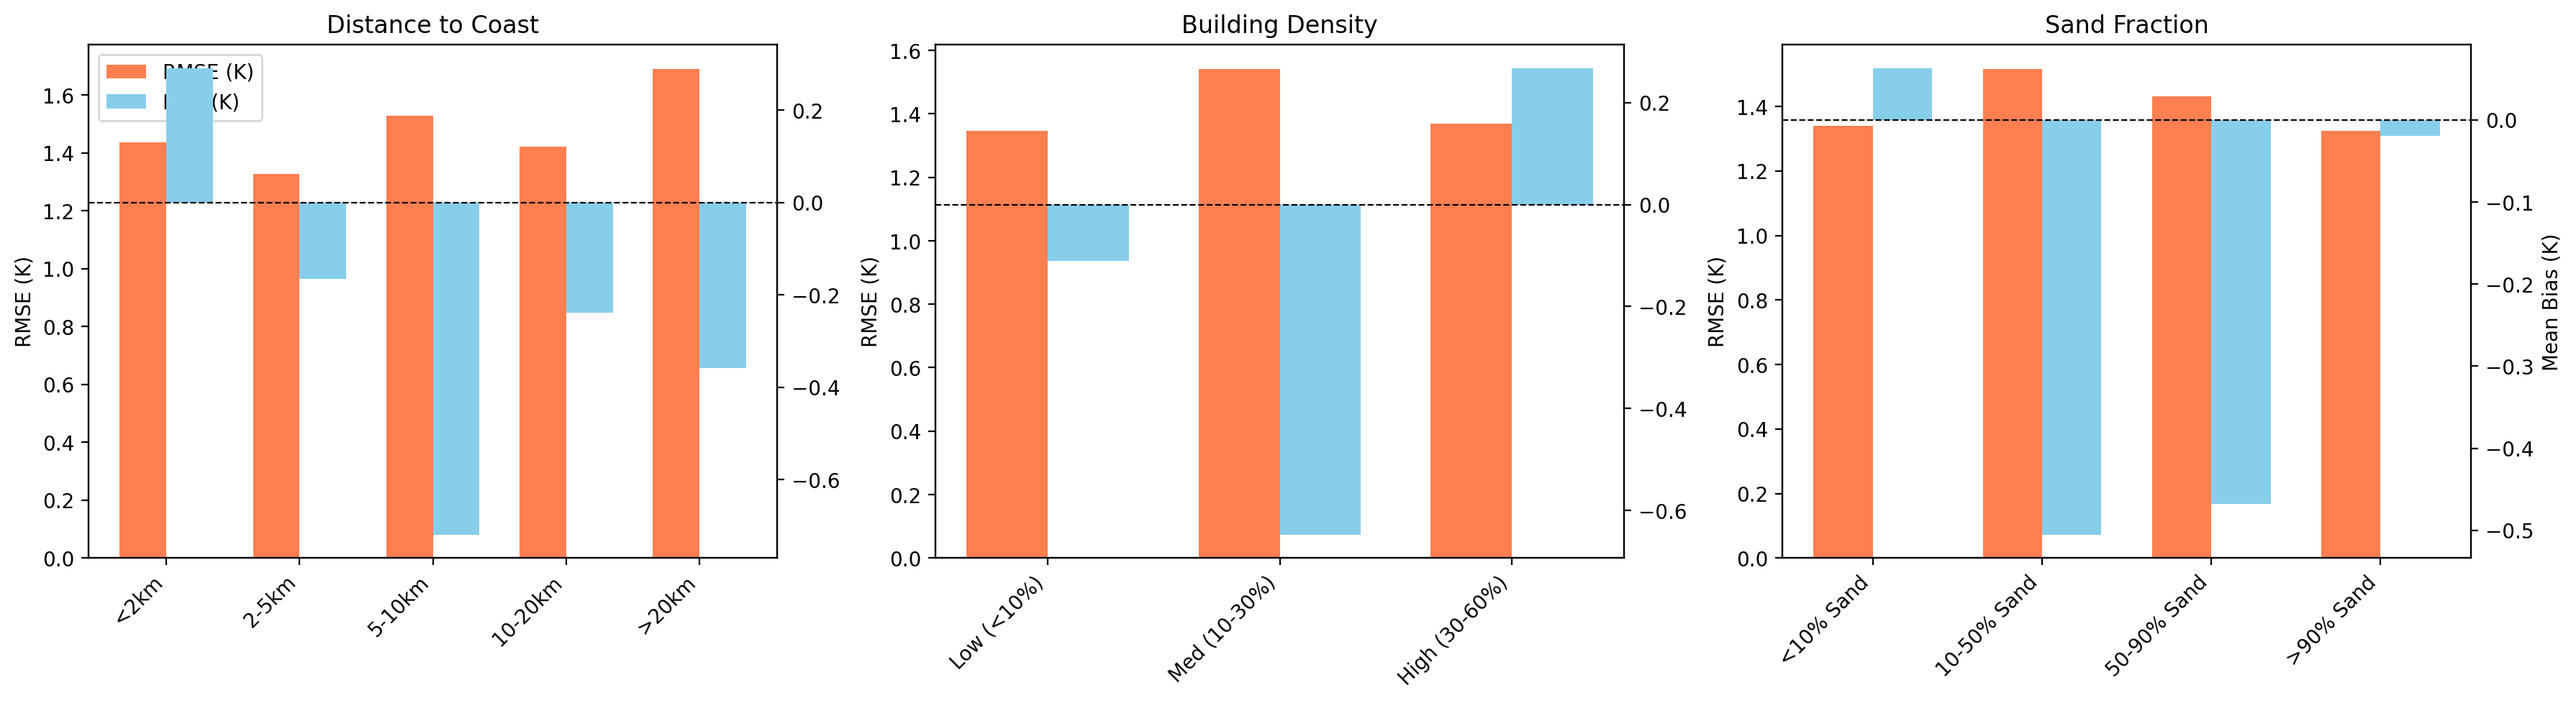
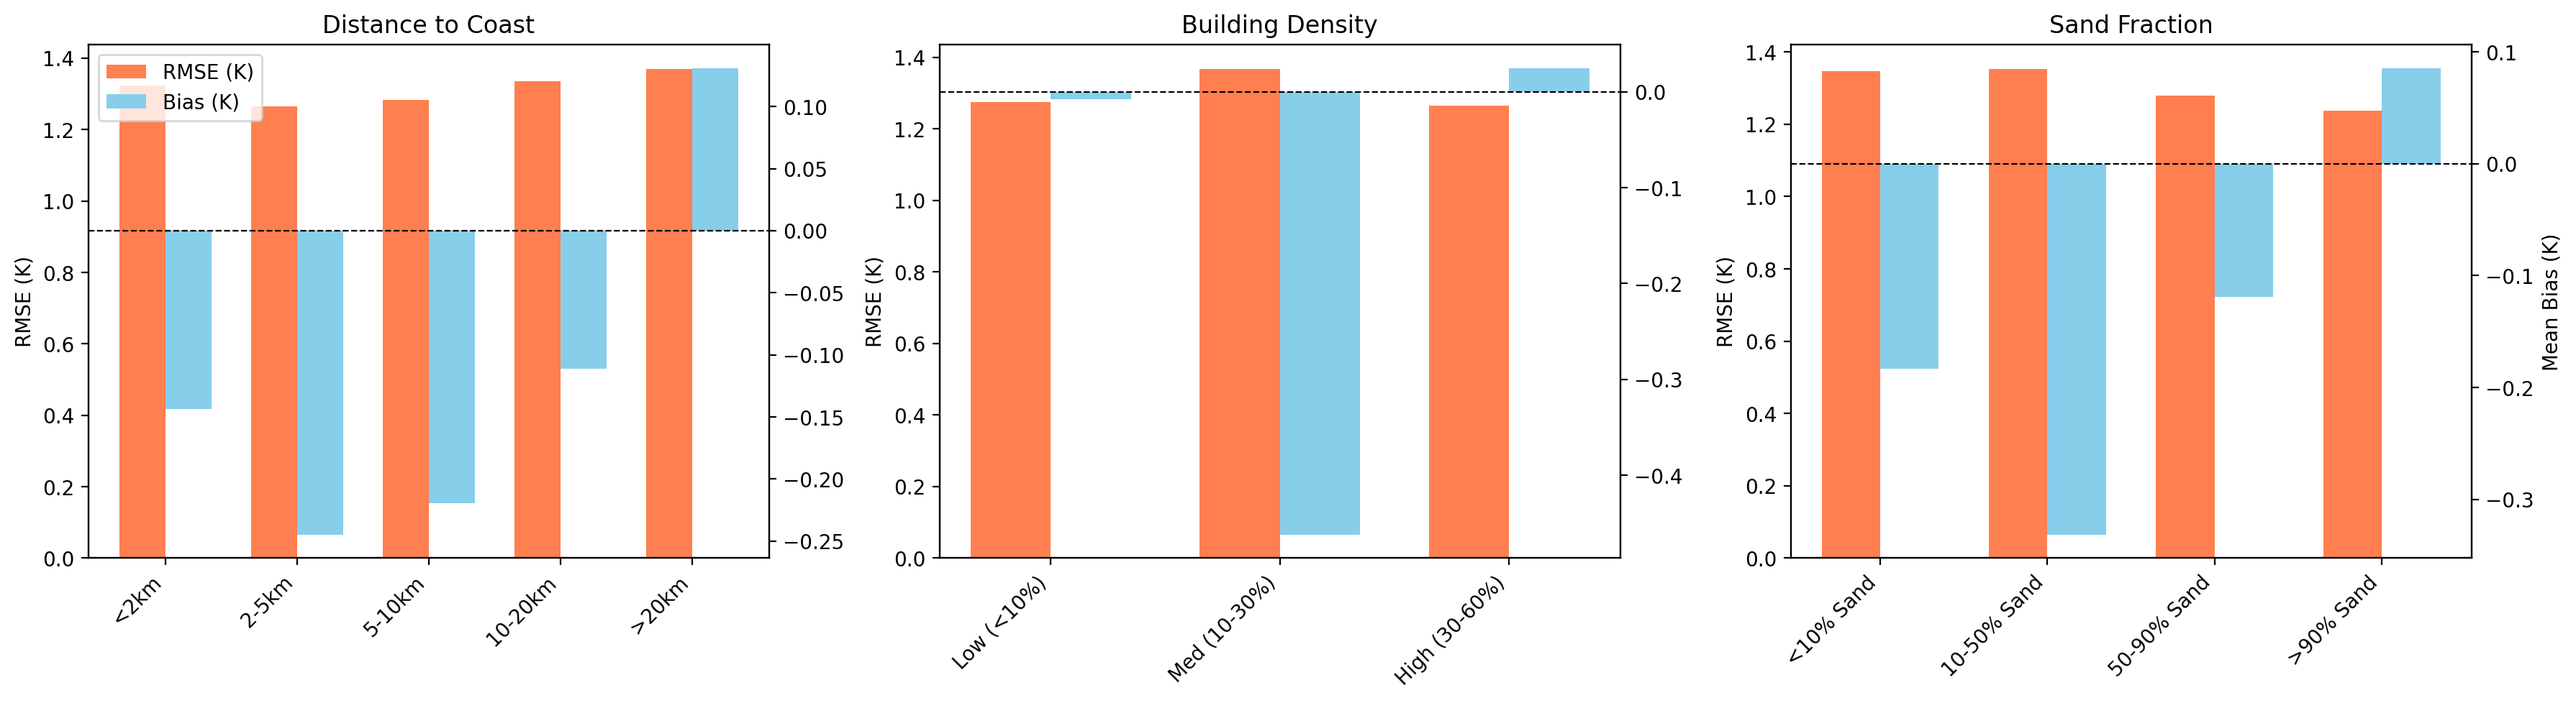
Modified the consistency script to consider all the pixels rather than just the test set and got the new metrics

diff --git a/src/phase3_evaluation/eval_nighttime.py b/src/phase3_evaluation/eval_nighttime.py
@@ -24,33 +24,6 @@ BLOCK_SIZE = 5000
 TEST_RATIO = 0.3
 RANDOM_STATE = 42
 
-def recreate_test_split(df):
-    """
-    Recreates the exact same spatial block split used during training
-    to extract ONLY the Test subset for unbiased evaluation.
-    """
-    logger.info(f"Recreating {BLOCK_SIZE}m spatial split to extract Test set...")
-    
-    # Assign Block IDs
-    df['block_x'] = (df['pixel_x'] // BLOCK_SIZE).astype(int)
-    df['block_y'] = (df['pixel_y'] // BLOCK_SIZE).astype(int)
-    
-    blocks = df[['block_x', 'block_y']].drop_duplicates()
-    
-    np.random.seed(RANDOM_STATE)
-    shuffled_blocks = blocks.sample(frac=1, random_state=RANDOM_STATE).reset_index(drop=True)
-    
-    n_test_blocks = int(len(blocks) * TEST_RATIO)
-    test_blocks_df = shuffled_blocks.iloc[:n_test_blocks]
-    
-    test_blocks_set = set(zip(test_blocks_df['block_x'], test_blocks_df['block_y']))
-    
-    is_test = df.apply(lambda row: (row['block_x'], row['block_y']) in test_blocks_set, axis=1)
-    
-    test_df = df[is_test].copy()
-    logger.info(f"Recovered {len(test_df):,} test pixels.")
-    return test_df
-
 def load_data():
     logger.info(f"Loading CSV: {TRAINING_CSV.name}")
     df = pd.read_csv(TRAINING_CSV)
@@ -59,8 +32,8 @@ def load_data():
     scene_means = df.groupby('scene_id')['nighttime_lst'].transform('mean')
     df['true_anomaly'] = df['nighttime_lst'] - scene_means
     
-    test_df = recreate_test_split(df)
-    return test_df
+    logger.info(f"Loaded {len(df):,} total observations for evaluation.")
+    return df
 
 def analyze_feature_strata(df):
     """
@@ -137,8 +110,8 @@ def main():
         logger.error("Missing required input files!")
         return
         
-    # 1. Load Ground Truth (Test set only)
-    test_df = load_data()
+    # 1. Load Ground Truth (Full dataset for consistency check)
+    full_df = load_data()
     
     logger.info("Sampling predicted 30m TIF and aggregating to 750m windows...")
     
@@ -167,15 +140,15 @@ def main():
                 return np.nan
             return np.mean(valid_pixels)
             
-        test_df['predicted_anomaly'] = test_df.apply(lambda row: get_window_mean(row['pixel_x'], row['pixel_y']), axis=1)
+        full_df['predicted_anomaly'] = full_df.apply(lambda row: get_window_mean(row['pixel_x'], row['pixel_y']), axis=1)
         
-    # Drop any NaNs (pixels outside geometry but somehow in test set)
-    test_df = test_df.dropna(subset=['true_anomaly', 'predicted_anomaly'])
-    logger.info(f"Final valid comparison pairs: {len(test_df):,}")
+    # Drop any NaNs (pixels outside geometry but somehow in dataset)
+    full_df = full_df.dropna(subset=['true_anomaly', 'predicted_anomaly'])
+    logger.info(f"Final valid comparison pairs: {len(full_df):,}")
     
     # 3. Calculate Metrics
-    y_true = test_df['true_anomaly']
-    y_pred = test_df['predicted_anomaly']
+    y_true = full_df['true_anomaly']
+    y_pred = full_df['predicted_anomaly']
     
     rmse = np.sqrt(mean_squared_error(y_true, y_pred))
     mae = mean_absolute_error(y_true, y_pred)
@@ -184,9 +157,9 @@ def main():
     mean_bias = np.mean(y_pred - y_true)
     
     logger.info("=" * 50)
-    logger.info("PHASE 3B METRICS (750m scale validation)")
+    logger.info("PHASE 3B METRICS (Full Dataset Consistency Check)")
     logger.info("=" * 50)
-    logger.info(f"  Test Pixels:   {len(test_df):,}")
+    logger.info(f"  All Pixels:    {len(full_df):,}")
     logger.info(f"  Mean Bias:     {mean_bias:+.3f} K")
     logger.info(f"  MAE:           {mae:.3f} K")
     logger.info(f"  RMSE:          {rmse:.3f} K")
@@ -197,8 +170,8 @@ def main():
     # 4. Save results string
     metrics_path = OUTPUT_DIR / "nighttime_30m_metrics.txt"
     with open(metrics_path, "w") as f:
-        f.write("PHASE 3B METRICS (750m scale validation)\n")
-        f.write(f"Test Pixels:   {len(test_df):,}\n")
+        f.write("PHASE 3B METRICS (Full Dataset Consistency Check)\n")
+        f.write(f"All Pixels:    {len(full_df):,}\n")
         f.write(f"Mean Bias:     {mean_bias:+.3f} K\n")
         f.write(f"MAE:           {mae:.3f} K\n")
         f.write(f"RMSE:          {rmse:.3f} K\n")
@@ -221,7 +194,7 @@ def main():
     
     # Formatting
     plt.title('VIIRS 1:30 AM Slot: Predicted vs Observed LST Anomaly\n' + 
-              f'(RMSE={rmse:.2f}K, R²={r2:.2f}, N={len(test_df):,})', fontsize=14)
+              f'(RMSE={rmse:.2f}K, R²={r2:.2f}, N={len(full_df):,})', fontsize=14)
     plt.xlabel('Observed VIIRS Nighttime LST Anomaly (K)', fontsize=12)
     plt.ylabel('Aggregated 30m Predicted LST Anomaly (K)', fontsize=12)
     plt.grid(True, linestyle=':', alpha=0.6)
@@ -232,7 +205,7 @@ def main():
     logger.info(f"Saved scatter plot to {plot_path}")
     
     # 6. Feature Strata Analysis
-    analyze_feature_strata(test_df)
+    analyze_feature_strata(full_df)
 
 if __name__ == "__main__":
     main()

diff --git a/src/phase3_model/predict_nighttime.py b/src/phase3_model/predict_nighttime.py
@@ -20,10 +20,15 @@ OUTPUT_PATH = OUTPUT_DIR / "lst_anomaly_nighttime_30m.tif"
 # Feature rasters in the EXACT SAME ORDER as the training features array
 FEATURE_FILES = {
     'ndvi_mean':                DATA_DIR / "ndvi_30m.tif",
+    'ndvi_std':                 DATA_DIR / "ndvi_std_30m.tif",
     'albedo_mean':              DATA_DIR / "albedo_30m.tif",
+    'albedo_std':               DATA_DIR / "albedo_std_30m.tif",
     'building_density_mean':    DATA_DIR / "building_density_30m.tif",
+    'building_density_std':     DATA_DIR / "building_density_std_30m.tif",
     'height_mean':              DATA_DIR / "height_30m.tif",
+    'height_std':               DATA_DIR / "height_std_30m.tif",
     'road_density_mean':        DATA_DIR / "road_density_30m.tif",
+    'road_density_std':         DATA_DIR / "road_density_std_30m.tif",
     'sand_mask_fraction':       DATA_DIR / "sand_mask_30m.tif",
     'water_mask_full_fraction': DATA_DIR / "water_mask_full_30m.tif",
     'dist_to_coast_mean':       DATA_DIR / "dist_to_coast_30m.tif",
@@ -53,14 +58,14 @@ def main():
     logger.info(f"Grid: {height}x{width}, CRS: {ref_crs}")
     
     # 2. Load all feature rasters
-    logger.info("Loading 8 feature rasters...")
+    logger.info(f"Loading {len(FEATURE_FILES)} feature rasters...")
     feature_names = list(FEATURE_FILES.keys())
     
     feature_stack = np.zeros((len(feature_names), height, width), dtype=np.float32)
     valid_mask = np.ones((height, width), dtype=bool)
     
     for i, (name, path) in enumerate(FEATURE_FILES.items()):
-        logger.info(f"  [{i+1}/8] {name}: {path.name}")
+        logger.info(f"  [{i+1}/{len(FEATURE_FILES)}] {name}: {path.name}")
         
         with rasterio.open(path) as src:
             data = src.read(1).astype(np.float32)
@@ -68,11 +73,13 @@ def main():
             
             if nodata == -9999.0:
                 outside = (data <= -9000)
-                valid_mask &= ~outside
+                if not name.endswith('_std'):
+                    valid_mask &= ~outside
                 data[outside] = 0
             elif nodata is not None and np.isnan(nodata):
                 outside = np.isnan(data)
-                valid_mask &= ~outside
+                if not name.endswith('_std'):
+                    valid_mask &= ~outside
                 data[outside] = 0
             
             feature_stack[i] = data
